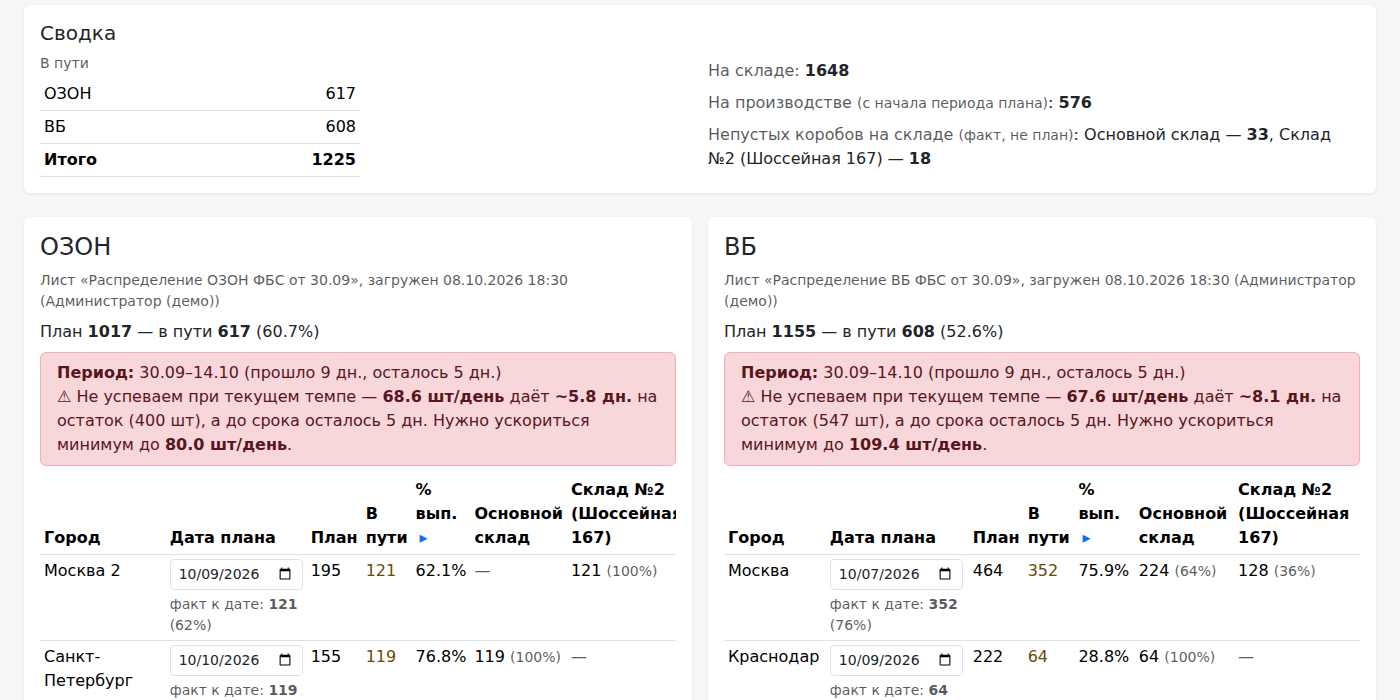
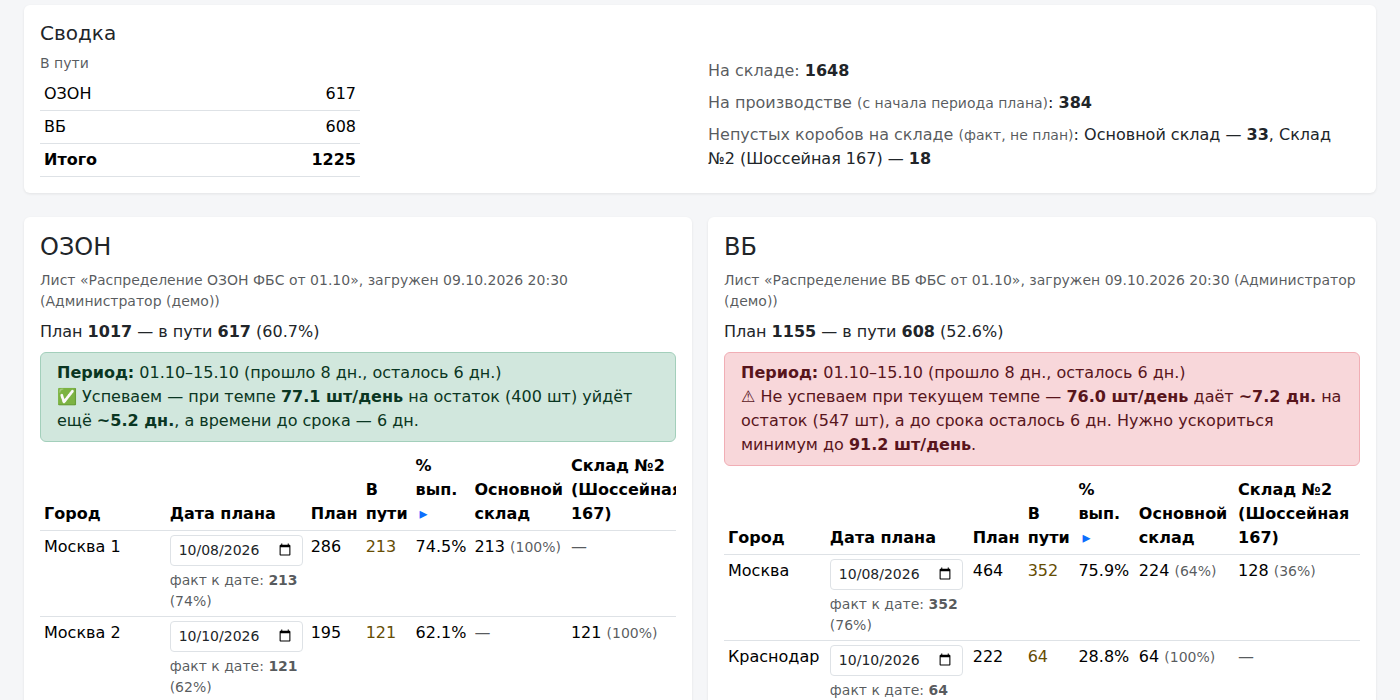
Лендинг: название Warehouse SW; в демо третий склад — «Склад №3»
Из демо-данных, документации и скриншотов лендинга убрано название
реального склада. Для «Склад №3» добавлено нейтральное имя в
PHYSICAL_STOCK_WAREHOUSE_NAMES, чтобы он по-прежнему показывался третьей
колонкой остатков (прежнее имя в списке сохранено для боевой базы).

Claude-Session: https://claude.ai/code/session_01SergodDaxkLGZ7uQkk2u5C

diff --git a/landing/index.html b/landing/index.html
@@ -3,7 +3,7 @@
 <head>
 <meta charset="utf-8">
 <meta name="viewport" content="width=device-width, initial-scale=1">
-<title>WMS для Ozon и Wildberries — план отгрузок и учёт склада</title>
+<title>Warehouse SW — план отгрузок и учёт склада для Ozon и Wildberries</title>
 <meta name="description" content="Система учёта склада и плана отгрузок для продавцов и производителей на Ozon и Wildberries: факт к дате по городам, перемещения коробами, недовоз и излишек, обмен с 1С.">
 <style>
   :root {
@@ -61,7 +61,7 @@
 
 <header class="top">
   <div class="wrap">
-    <span class="logo">📦 <span class="todo">[НАЗВАНИЕ ПРОДУКТА]</span></span>
+    <span class="logo">📦 Warehouse SW</span>
     <a class="btn small" href="#contact">Запросить демо</a>
   </div>
 </header>
@@ -172,7 +172,7 @@
       <p class="lead">Расскажите коротко о своём складе, и мы покажем, как это будет работать у вас.</p>
       <div class="cta">
         <a class="btn" href="https://t.me/ВАШ_TELEGRAM">Написать в Telegram</a>
-        <a class="btn ghost" href="mailto:ВАШ_EMAIL?subject=Демо WMS для Ozon и Wildberries">Написать на почту</a>
+        <a class="btn ghost" href="mailto:ВАШ_EMAIL?subject=Демо Warehouse SW">Написать на почту</a>
       </div>
       <p class="todo" style="display:inline-block;margin-top:14px">Подставьте свои контакты вместо ВАШ_TELEGRAM и ВАШ_EMAIL перед публикацией.</p>
     </div>
@@ -182,7 +182,7 @@
 
 <footer>
   <div class="wrap">
-    <span class="todo">[НАЗВАНИЕ ПРОДУКТА / ИП или ООО, ИНН]</span> · Скриншоты демо-версии, данные вымышленные.
+    Warehouse SW · <span class="todo">[ИП или ООО, ИНН]</span> · Скриншоты демо-версии, данные вымышленные.
   </div>
 </footer>
 

diff --git a/wms/demo_data.py b/wms/demo_data.py
@@ -42,7 +42,7 @@ DEMO_PASSWORD = "demo"
 
 MAIN_WAREHOUSE = "Основной склад"
 SECOND_WAREHOUSE = "Склад №2 (Шоссейная 167)"
-WORKSHOP_WAREHOUSE = "ЦЕХ Марат"
+WORKSHOP_WAREHOUSE = "Склад №3"
 
 # (вид, модель, цвета, размеры, множественное число вида для названия)
 CATALOG = [
@@ -108,7 +108,7 @@ def _create_users(main_wh, second_wh, workshop_wh):
         invoice_receiving_view_allowed=True,
     )
     logist = _user("logist", "Сергей Логист", role="logist")
-    fulfillment = _user("fulfilment", "Фулфилмент ЦЕХ Марат", role="fulfillment", warehouse_id=workshop_wh.id)
+    fulfillment = _user("fulfilment", "Фулфилмент (Склад №3)", role="fulfillment", warehouse_id=workshop_wh.id)
     fulfillment.allowed_sections = "receiving,movement"
     workers = [
         _user("shveya1", "Анна Швея", role="production"),

diff --git a/wms/models.py b/wms/models.py
@@ -83,6 +83,7 @@ PHYSICAL_STOCK_WAREHOUSE_NAMES = (
     "склад №2",
     "склад №2 (шоссейная 167)",
     "цех марат",
+    "склад №3",
 )
 
 # Роли раздела «МВБ Логистика» (отдельный вход, см. blueprints/mvb.py).

diff --git a/docs/DEMO.md b/docs/DEMO.md
@@ -43,11 +43,11 @@ WMS_GOOGLE_CREDENTIALS_FILE=/nonexistent .venv/bin/gunicorn --bind 127.0.0.1:800
 | `kladovshik` | Кладовщик | приемка, размещение, перемещения |
 | `logist` | Логист | только передача отгрузок транспорту |
 | `shveya1` (`shveya2`, `shveya3`) | Производство | только сканирование изделий |
-| `fulfilment` | Фулфилмент (ЦЕХ Марат) | только свои приемки и перемещения |
+| `fulfilment` | Фулфилмент (Склад №3) | только свои приемки и перемещения |
 
 ## Что в базе
 
-- 3 склада (Основной, Склад №2, ЦЕХ Марат) с рядами и ячейками, ~90 коробов
+- 3 склада (Основной, Склад №2, Склад №3) с рядами и ячейками, ~90 коробов
   с остатками, неразмещённый остаток «на разбраковке».
 - 18 товаров (шапки, кардиганы, свитеры, шарфы) с видами и нормами времени;
   у одного товара есть доп. штрихкод `46999000000001`.

diff --git a/docs/commercial/README.md b/docs/commercial/README.md
@@ -12,5 +12,5 @@
 | 6 | [06-client-install.md](06-client-install.md) | установка у клиента, безопасность, юридические вопросы |
 
 Что нужно подставить вручную до публикации (помечено жёлтым в лендинге):
-название продукта, реквизиты, Telegram и почту, цены (по `05-pricing.md`).
+реквизиты (ИП или ООО, ИНН), Telegram и почту, цены (по `05-pricing.md`). Название на лендинге — Warehouse SW.
 Демо для показов — `python3 run_demo.py --reset` (см. [../DEMO.md](../DEMO.md)).
